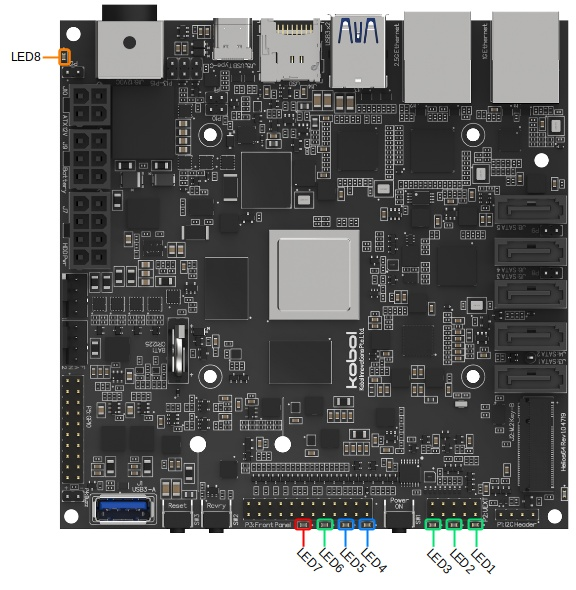
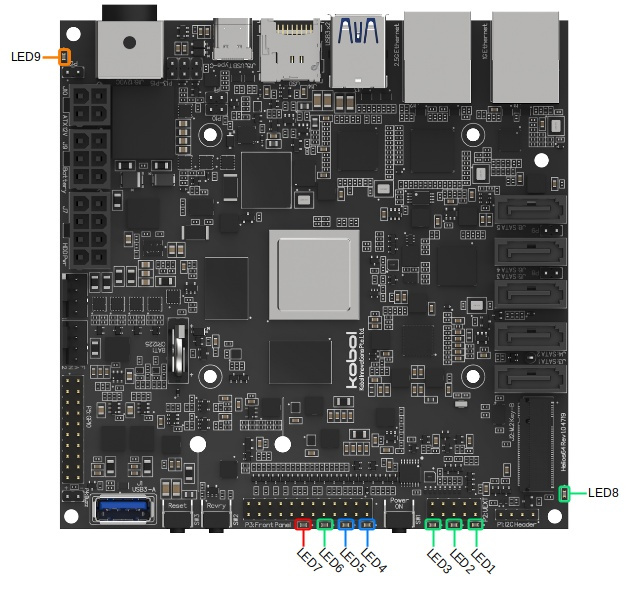
Some fixes

diff --git a/docs/helios64/led.md b/docs/helios64/led.md
@@ -11,7 +11,8 @@ LED1|green|System Rail Power
 LED2|green|Periph. Rail Power
 LED3|green|HDD Rail Power
 LED4|blue|System ON
-LED5|bule|HDD Activity
+LED5|blue|HDD Activity
 LED6|green|System Status/Heartbeat
 LED7|red|System Error
-LED8|orange|Battery Charge
+LED8|green|M.2 Activity
+LED9|orange|Battery Status

diff --git a/docs/helios64/sata.md b/docs/helios64/sata.md
@@ -26,7 +26,7 @@ The above diagram shows the 2:1 MUX between SATA Port 1 and the M.2 connector. T
 
 ## HDD Power
 
-Helios64 provides on-board HDD power to supply up to 5x HDDs.
+Helios64 provides on-board HDD power to supply up to 5x HDDs via header J7.
 
 ![J7 Location](/helios64/img/sata/j7.jpg)
 
